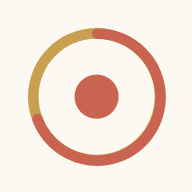
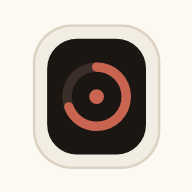
아이콘을 워치 모양으로 바꾸고 설치 단계를 줄인다
카톡 링크로 열면 카톡 안의 브라우저가 뜬다. 거기서는 설치가 안 되고,
저장 공간도 크롬과 따로 논다. 그대로 두면 크롬으로 다시 열고 메뉴를
찾아 들어가야 해서, 받는 사람이 도중에 포기하기 쉽다.

- 카톡 안의 브라우저를 알아채면 먼저 알린다. 안드로이드는 intent로
  크롬에 바로 넘긴다. 아이폰은 그 방법이 막혀 있어 안내만 한다.
  활성화보다 이 안내를 위에 둔다. 거기서 활성화하면 크롬에서 또 해야 한다.
- 안드로이드 크롬에서는 앱이 직접 설치 창을 띄운다(beforeinstallprompt).
  메뉴를 찾아 들어갈 필요가 없다.
- 아이폰 사파리는 공유 -> 홈 화면에 추가를 안내한다. 자동 설치가 없다.
- 이미 설치해서 앱으로 열었으면 아무것도 띄우지 않는다.
- 아이콘은 앱을 열었을 때 보이는 워치 모양으로. 크림색 케이스에
  검은 화면, 그 안에 강도 링.
- 아이콘은 캐시부터 보는 파일이라 서비스워커 캐시 번호를 v2로 올린다.
  올리지 않으면 이미 설치한 사람은 옛 아이콘을 계속 쓴다.

diff --git a/index.html b/index.html
@@ -388,6 +388,29 @@
   /* ── 활성화(사용 기간) ─────────────────────────────────────
      만료돼도 지난 기록·통계·내보내기는 그대로 열어둔다.
      새 감정 기록과 자동사고 점검만 막는다 */
+  /* 홈 화면 설치 안내. 카톡 안의 브라우저로 열렸을 때도 여기로 알린다 */
+  .install-bar {
+    display: none;
+    background: #FBF4E4; border: 1px solid #E8D5A8; border-radius: 14px;
+    padding: 15px 16px; margin-bottom: 18px; text-align: center;
+  }
+  .install-bar.show { display: block; }
+  .install-bar p {
+    font-size: 12.5px; line-height: 1.7; color: #8A6E32;
+    margin-bottom: 11px; white-space: pre-line;
+  }
+  .install-bar .row { display: flex; gap: 8px; justify-content: center; }
+  .install-bar button {
+    padding: 10px 16px; border-radius: 10px; border: none;
+    font-family: inherit; font-size: 12.5px; font-weight: 700;
+    background: #C8A050; color: #FFFFFF; cursor: pointer;
+    -webkit-tap-highlight-color: transparent;
+  }
+  .install-bar button:active { transform: scale(0.97); }
+  .install-bar button.ghost {
+    background: transparent; color: #A8927A; border: 1px solid #E0D8CC;
+  }
+
   .lock-banner {
     display: none;
     background: #FBEDE8; border: 1px solid #E8C0B0; border-radius: 14px;
@@ -716,6 +739,14 @@
     <div class="header">
       <h1>감정 기록</h1>
       <p class="sub">지금 내 감정에 가장 가까운 것을 골라보세요</p>
+    </div>
+
+    <div class="install-bar" id="installBar">
+      <p id="installText"></p>
+      <div class="row">
+        <button id="installAction">설치하기</button>
+        <button class="ghost" id="installClose">나중에</button>
+      </div>
     </div>
 
     <div class="lock-banner" id="lockBanner">
@@ -2650,6 +2681,90 @@ renderMonth();
 applyLock();          // 저장된 만료일로 먼저 판단하고
 recheckLicense();     // 서명은 뒤에서 다시 확인한다
 activateFromLink();   // 활성화 링크로 열었으면 바로 활성화한다
+
+// ── 홈 화면 설치 안내 ───────────────────────────────────────
+// 카톡 링크로 열면 카톡 안의 브라우저가 뜨는데, 거기서는 설치가 안 되고
+// 저장 공간도 크롬과 따로 논다. 거기서 활성화하면 크롬에서 또 해야 하므로
+// 무엇보다 먼저 알린다
+const INSTALL_HINT_KEY = 'cbt_diary_install_hint';
+let deferredInstall = null;
+
+window.addEventListener('beforeinstallprompt', e => {
+  e.preventDefault();
+  deferredInstall = e;
+  updateInstallBar();
+});
+window.addEventListener('appinstalled', () => {
+  deferredInstall = null;
+  updateInstallBar();
+});
+
+function isStandalone() {
+  return window.matchMedia('(display-mode: standalone)').matches || navigator.standalone === true;
+}
+function inAppBrowser() {
+  return /KAKAOTALK|NAVER\(inapp|Instagram|FBAN|FBAV|FB_IAB|Line\/|DaumApps/i.test(navigator.userAgent);
+}
+
+function updateInstallBar() {
+  const bar = document.getElementById('installBar');
+  const text = document.getElementById('installText');
+  const action = document.getElementById('installAction');
+  const ua = navigator.userAgent;
+  const isIOS = /iPhone|iPad|iPod/.test(ua);
+  const isAndroid = /Android/.test(ua);
+
+  bar.classList.remove('show');
+  if (isStandalone()) return;   // 이미 설치해서 앱으로 열었다
+
+  if (inAppBrowser()) {
+    text.textContent = isAndroid
+      ? '지금은 카톡 안의 브라우저로 열려 있어요.\n크롬으로 열어야 홈 화면에 둘 수 있어요.'
+      : '지금은 카톡 안의 브라우저로 열려 있어요.\n오른쪽 아래 버튼을 눌러 사파리로 열어주세요.';
+    action.textContent = '크롬으로 열기';
+    action.style.display = isAndroid ? '' : 'none';
+    bar.classList.add('show');
+    return;
+  }
+
+  if (localStorage.getItem(INSTALL_HINT_KEY) === 'off') return;
+
+  if (deferredInstall) {
+    text.textContent = '홈 화면에 두면 바로 열 수 있어요.';
+    action.textContent = '홈 화면에 설치';
+    action.style.display = '';
+    bar.classList.add('show');
+    return;
+  }
+
+  if (isIOS) {
+    text.textContent = '홈 화면에 두면 바로 열 수 있어요.\n아래 공유 버튼을 눌러 "홈 화면에 추가"를 골라주세요.';
+    action.style.display = 'none';
+    bar.classList.add('show');
+  }
+}
+
+document.getElementById('installAction').addEventListener('click', async () => {
+  if (inAppBrowser()) {
+    // 안드로이드는 크롬으로 바로 넘길 수 있다
+    const bare = location.href.replace(/^https?:\/\//, '');
+    location.href = 'intent://' + bare + '#Intent;scheme=https;package=com.android.chrome;end';
+    return;
+  }
+  if (!deferredInstall) return;
+  deferredInstall.prompt();
+  await deferredInstall.userChoice;
+  deferredInstall = null;
+  updateInstallBar();
+});
+
+document.getElementById('installClose').addEventListener('click', () => {
+  // 카톡 안내는 다시 볼 수 있어야 하므로 이번만 닫는다
+  if (!inAppBrowser()) localStorage.setItem(INSTALL_HINT_KEY, 'off');
+  document.getElementById('installBar').classList.remove('show');
+});
+
+updateInstallBar();
 
 // 홈 화면 설치와 오프라인 실행. file://에서는 등록되지 않으므로 건너뛴다
 if ('serviceWorker' in navigator && location.protocol.indexOf('http') === 0) {

diff --git a/sw.js b/sw.js
@@ -1,6 +1,8 @@
 // 인터넷이 없어도 앱이 열리게 한다. 기록은 원래 기기 안에만 있으므로
 // 여기서 내보내거나 받아오는 것은 없다.
-const CACHE = 'cbt-diary-v1';
+// 아이콘처럼 캐시부터 보는 파일을 바꾸면 이 번호를 올려야 한다.
+// 올리지 않으면 이미 설치한 사람은 옛 파일을 계속 쓴다
+const CACHE = 'cbt-diary-v2';
 
 const ASSETS = [
   './',
